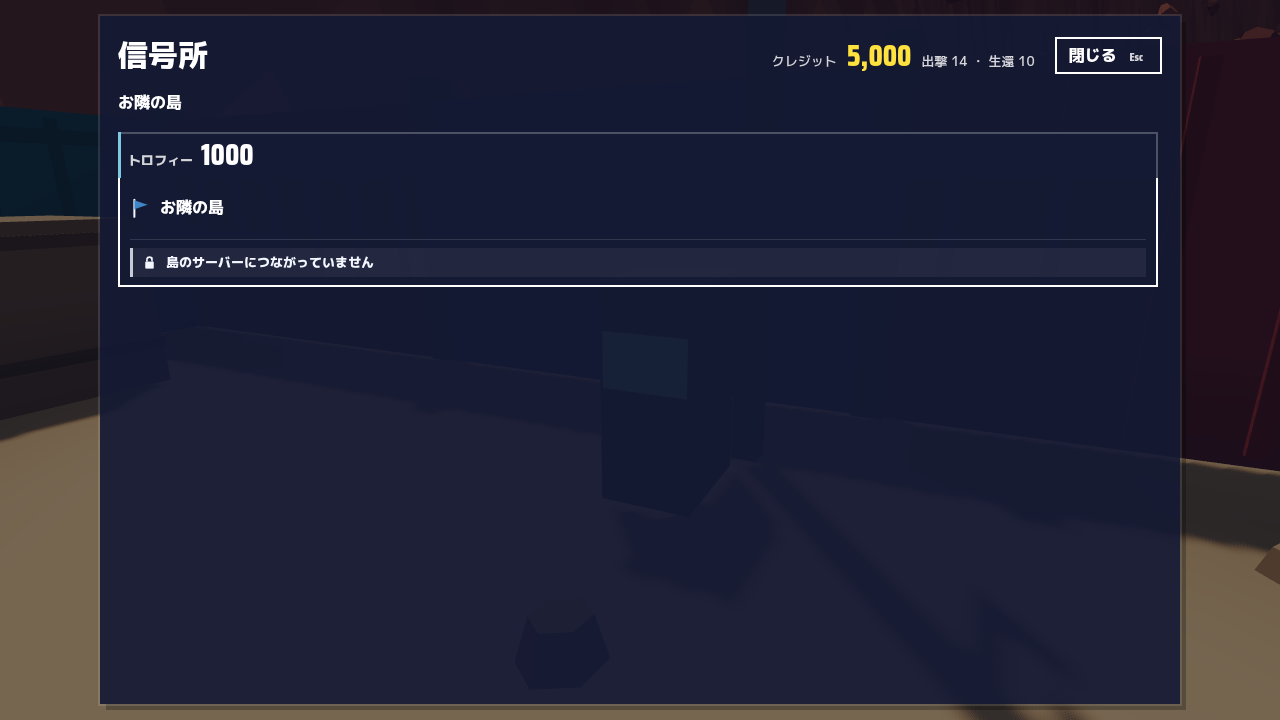
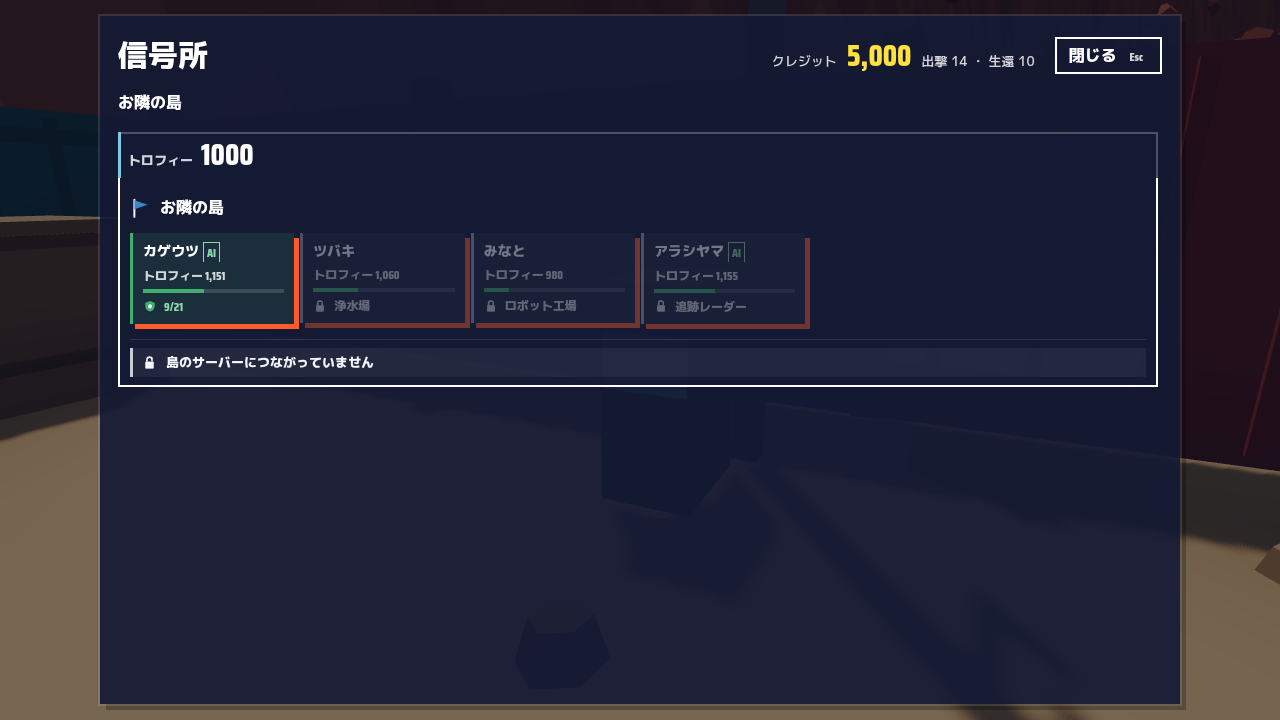
fix(ringfall): AI 名を本物と重ならない候補に、表示を「 · AI」に統一（案 G）
AI 島の名前プールからツバキ等を外し、地図・知らせ・信号所で
「{名前} · AI」に揃える。parseNeighbours は ai フラグを保持する。

Changed region(s): [[0.0938, 0.3361, 0.6562, 0.4583], [0.0938, 0.4889, 0.2812, 0.55], [0.875, 0.5194, 0.9062, 0.55]]

diff --git a/src/ringfall/meta/ai-islands.ts b/src/ringfall/meta/ai-islands.ts
@@ -18,7 +18,7 @@ import { CODE_ALPHABET, CODE_LENGTH } from "./island-code";
 import { lentRivals, type Incoming, type IslandLogEntry, type IslandView, type LentIn, type Outgoing } from "./expeditions";
 import { LOCAL_AID, type Parcel } from "./parcels";
 import type { RivalExpedition } from "../sim/battle";
-import { CONTESTED_SHORES, NEIGHBOUR_MAX, NEIGHBOUR_SLOTS, routeOpen, type Neighbour } from "./neighbours";
+import { aiLabel, CONTESTED_SHORES, NEIGHBOUR_MAX, NEIGHBOUR_SLOTS, routeOpen, type Neighbour } from "./neighbours";
 import { TROPHY, clampTrophies } from "./trophies";
 import type { Island } from "./island";
 
@@ -49,12 +49,16 @@ export const AI = {
   every: [6, 9, 7, 11] as const,
 };
 
-/** The owners' names, a few a slot; the salt picks one. All of a length, so the cards keep their size. */
+/**
+ * AI owners' names (TKT-204 案 G): a pool that does not overlap common player short names
+ * (旧: ツバキ / ミナト / スバル など). Display always adds 「 · AI」 via `aiLabel()` in copy.ts.
+ * A few a slot; the salt picks one. Similar length so the cards keep their size.
+ */
 const NAMES: readonly (readonly string[])[] = [
-  ["ハヤテ", "ミナト", "コハク"],
-  ["ツバキ", "シオン", "アサギ"],
-  ["クロガネ", "ホムラ", "イカリ"],
-  ["カモメ", "スバル", "トキワ"],
+  ["カゲウツ", "イソナミ", "オキカゼ"],
+  ["ヤマビコ", "サワタリ", "ホシクズ"],
+  ["クロサキ", "キンロウ", "ギンカゼ"],
+  ["アラシヤマ", "シオサイ", "カスミメ"],
 ];
 
 /** A small integer hash of a few numbers. */
@@ -221,7 +225,7 @@ export function aiView(
     });
   const held = aiNodes(a, salt, day);
   const parcels = aiDefenceParcels(a, salt, day, held, seized);
-  return { code: a.code, owner: a.name, day, factory: aiFactory(day), protectedUntil: 0, nodes, expeditions, pings: [], parcels };
+  return { code: a.code, owner: aiLabel(a.name), day, factory: aiFactory(day), protectedUntil: 0, nodes, expeditions, pings: [], parcels };
 }
 
 /**
@@ -300,7 +304,7 @@ export function aiAttack(p: Seen, salt: number, taken: readonly number[], scoute
 /** That expedition as the warning the camp shows (来る遠征): it lands in the next raid (no clock: the island waits for the raid). */
 export function aiIncoming(p: Seen, salt: number, taken: readonly number[], scouted = true): Incoming[] {
   const x = aiAttack(p, salt, taken, scouted);
-  return x ? [{ id: 0, by: { code: x.island.code, name: x.island.name }, node: x.node, arriveAt: 0, state: "coming" }] : [];
+  return x ? [{ id: 0, by: { code: x.island.code, name: aiLabel(x.island.name) }, node: x.node, arriveAt: 0, state: "coming" }] : [];
 }
 
 /**
@@ -317,10 +321,17 @@ export function aiLent(p: Seen, salt: number, taken: readonly number[], scouted 
     if (CONTESTED_SHORES.includes(n.id)) continue;
     // Every slot's: an island whose slot a player's island has since taken still holds what it took, and stands its squad there.
     const a = aiByOwner(salt, owner);
-    if (a) out.push({ id: 0, by: { code: aiOwner(a.code), name: a.name }, target: n.id, kinds: aiKinds(p.day), state: "holding" });
+    if (a) out.push({ id: 0, by: { code: aiOwner(a.code), name: aiLabel(a.name) }, target: n.id, kinds: aiKinds(p.day), state: "holding" });
   }
   const x = aiAttack(p, salt, taken, scouted);
-  if (x && p.poiState[x.node]?.state === "own") out.push({ id: 0, by: { code: aiOwner(x.island.code), name: x.island.name }, target: x.node, kinds: x.scout ? [...AI.scout] : aiKinds(p.day), state: "coming" });
+  if (x && p.poiState[x.node]?.state === "own")
+    out.push({
+      id: 0,
+      by: { code: aiOwner(x.island.code), name: aiLabel(x.island.name) },
+      target: x.node,
+      kinds: x.scout ? [...AI.scout] : aiKinds(p.day),
+      state: "coming",
+    });
   return out;
 }
 
@@ -338,7 +349,8 @@ export const aiRivals = (lent: readonly LentIn[]): RivalExpedition[] => lentRiva
  */
 export function aiRaidNews(before: Seen, after: { poiState: Island }, salt: number, taken: readonly number[], now: number, scouted = true): IslandLogEntry[] {
   const out: IslandLogEntry[] = [];
-  const by = (a: AiIsland) => ({ code: a.code, name: a.name });
+  // News / defence log: always 「名前 · AI」 so it never looks like a real player (TKT-204 案 G).
+  const by = (a: AiIsland) => ({ code: a.code, name: aiLabel(a.name) });
   for (const n of NODES) {
     const was = rivalOf(before.poiState[n.id]?.state ?? "foe");
     const is = rivalOf(after.poiState[n.id]?.state ?? "foe");

diff --git a/src/ringfall/view/map.ts b/src/ringfall/view/map.ts
@@ -14,7 +14,7 @@ import { DAM_FACE, floorLevel, groundOf, highGround, LEVEL, steepAt, surfaceAt, 
 import { cellOf, decodeSeen, exploreSize, type Ally, type Contact, type Enemy, type Player, type State } from "../sim/state";
 import { PAL, RARITY_CSS } from "./models";
 import { isContestedShore, NEIGHBOUR_SLOTS, neighbourNameByCode, type Neighbour } from "../meta/neighbours";
-import { attackOwner, contestOwner } from "./copy";
+import { aiLabel, attackOwner, contestOwner } from "./copy";
 import { UI, alpha } from "./palette";
 
 /*
@@ -1044,18 +1044,20 @@ export class IslandMap {
     // A POI the enemy held as the raid began and the player cleared gets a tick after its name; who holds it is its mark's colour.
     const hold = (i: number): PoiHold => s.hold?.[i] ?? "foe";
     const poiText = (i: number) => (s.cleared[i] && hold(i) === "foe" ? `${POIS[i].name} ✓` : POIS[i].name);
-    // Owner display name (AI tagged). Used under hub marks and for 攻める / 取り合う lines.
+    // Owner display name (AI → 「名前 · AI」). Used under hub marks and for 攻める / 取り合う lines.
     const ownerName = (owner: string): string => {
       if (isAiOwner(owner)) {
         const n = neighbourNameByCode(owner, this.neighbours);
-        return n ? `${n} AI` : "AI";
+        return n ? aiLabel(n) : "AI";
       }
+      const n = this.neighbours.find((x) => x.code === owner);
+      if (n) return n.ai ? aiLabel(n.name) : n.name;
       return neighbourNameByCode(owner, this.neighbours) ?? "他のプレイヤー";
     };
     /**
      * Caption under a POI mark (TKT-204 案 A):
      * - rival contested → 「ツバキ · 攻める」
-     * - foe contested facing a neighbour → 「ツバキと取り合う」
+     * - foe contested facing a neighbour → 「カゲウツ · AIと取り合う」
      * - other rival → owner name only
      */
     const shoreCaption = (i: number): string | null => {
@@ -1071,7 +1073,7 @@ export class IslandMap {
       if (slot < 0) return null;
       const n = this.neighbours.find((x) => x.slot === slot);
       if (!n) return null;
-      return contestOwner(n.ai ? `${n.name} AI` : n.name);
+      return contestOwner(n.ai ? aiLabel(n.name) : n.name);
     };
     const attackable = (i: number): boolean => isContestedShore(POIS[i].id) && rivalOf(hold(i)) !== null;
     // Another player's POI starts cleared (it stands no garrison): its name is not dimmed for it.

diff --git a/src/ringfall/view/hub.ts b/src/ringfall/view/hub.ts
@@ -18,7 +18,7 @@ import { frontNodes, NEIGHBOURS, ownNodes } from "../sim/front";
 import { nodeRow } from "./row";
 import { sfx } from "./sfx";
 import { rarityText } from "./palette";
-import { NEWS_KEEP, PLAN_GOAL, PHRASE, TERM, attackGoal, contestGateHint, expOutLine, liberationLine, nextAttack, nextFront, nextFrontCapture, pushNews, relayOf, trophyLine } from "./copy";
+import { NEWS_KEEP, PLAN_GOAL, PHRASE, TERM, aiLabel, attackGoal, contestGateHint, expOutLine, liberationLine, nextAttack, nextFront, nextFrontCapture, pushNews, relayOf, trophyLine } from "./copy";
 import { TROPHY, clampTrophies, defendGain } from "../meta/trophies";
 
 const RARITY_CSS = ["var(--r0)", "var(--r1)", "var(--r2)", "var(--r3)"];
@@ -56,8 +56,10 @@ export function rivalFrontPick(p: Profile, from: { x: number; z: number } = CAMP
   const label = (n: (typeof NODES)[number], i: number): string => {
     const who = rivalOf(holds[i]);
     if (!who) return n.name;
+    const hit = neigh.find((x) => x.code === who || (who.startsWith("ai-") && x.code === who.slice(3)));
+    // 方向 A: 「ツバキの浄水場」— 持ち主＋拠点名. AI → 「カゲウツ · AIの浄水場」(TKT-204 案 G).
+    if (hit) return `${hit.ai ? aiLabel(hit.name) : hit.name}の${n.name}`;
     const owner = neighbourNameByCode(who, neigh);
-    // 方向 A: 「ツバキの浄水場」— 持ち主＋拠点名. Unknown code → 他のプレイヤー (not the slot's name).
     return owner ? `${owner}の${n.name}` : `他のプレイヤーの${n.name}`;
   };
   const near = NODES.map((n, i) => ({ n, i }))

diff --git a/src/ringfall/view/hud.ts b/src/ringfall/view/hud.ts
@@ -3,7 +3,7 @@ import { MODULES, nextLevel, stashCap, stillNeeded } from "../meta/hideout";
 import { neighboursNowOnMap } from "../island-net";
 import type { ModKind, ValuableKind } from "../sim/config";
 import { modGist } from "./modgist";
-import { goalCompass, PHRASE, TERM, liberationDelta, liberationLine, moduleRaiseReady, newsIncursion, relayOf, trophyLine } from "./copy";
+import { aiLabel, goalCompass, PHRASE, TERM, liberationDelta, liberationLine, moduleRaiseReady, newsIncursion, relayOf, trophyLine } from "./copy";
 import { itemColor, itemName, namedAid, nextHandFor } from "./hub";
 import { ALLY, AWARE, BAG, HIDEOUT, META, DEPOT, ENEMIES, HEAL_KINDS, HEALS, PLAYER, RARITY, REVEAL, TACTICAL, TOOL_KINDS, TOOLS, VALUABLES, WEAPONS, type Flank } from "../sim/config";
 import { eyePos, magSize } from "../sim/combat";
@@ -1648,7 +1648,8 @@ export class Hud {
     // incursion / 取り合う拠点の制圧行も newsKeep に入れ、後から setNews されても消えないようにする。
     const nameOf = (owner: string) => {
       const n = neighboursNowOnMap().find((x) => x.code === owner || (owner.startsWith("ai-") && x.code === owner.slice(3)));
-      return n ? (n.ai ? `${n.name}(AI)` : n.name) : owner;
+      if (!n) return owner;
+      return n.ai ? aiLabel(n.name) : n.name;
     };
     const tropPer = settled?.takenRival?.length && settled.trophies?.gained
       ? Math.max(1, Math.round(settled.trophies.gained / settled.takenRival.length))

diff --git a/src/ringfall/view/expeditions.ts b/src/ringfall/view/expeditions.ts
@@ -248,7 +248,9 @@ export class ExpeditionPanel {
             const trop = n.trophies != null ? `<small class="exp-n-trop">${TERM.trophy} ${n.trophies.toLocaleString("ja-JP")}</small>` : "";
             const foot = open ? `<small>${coreIcon(SIDE.rival)}${n.held}/${n.total}${lastMarks(n, Date.now())}</small>` : `<small class="shut">${lockIcon()}${esc(nodeName(NEIGHBOUR_SLOTS[k].shore))}</small>`;
             const reach = open && (this.conn.t === "ok" || n.ai);
-            return `<button type="button" class="${this.target?.code === n.code ? "on" : ""}${open ? "" : " shut"}" data-act="exp-island" data-arg="${esc(n.code)}"${reach ? dis : " disabled"}><b>${esc(n.name)}${n.ai ? `<span class="ai-tag">AI</span>` : ""}</b>${trop}${held}${foot}${overnight(n, p.day)}</button>`;
+            // TKT-204 案 G: AI is 「名前 · AI」 same as map / news (span kept for style).
+            const who = n.ai ? `${esc(n.name)}<span class="ai-tag">AI</span>` : esc(n.name);
+            return `<button type="button" class="${this.target?.code === n.code ? "on" : ""}${open ? "" : " shut"}" data-act="exp-island" data-arg="${esc(n.code)}"${reach ? dis : " disabled"}><b>${who}</b>${trop}${held}${foot}${overnight(n, p.day)}</button>`;
           })
           .join("")}</div>`
       : "";

diff --git a/src/ringfall/main.ts b/src/ringfall/main.ts
@@ -39,7 +39,7 @@ import { Music, type Mood } from "./view/music";
 import { sfx } from "./view/sfx";
 import { Soundscape } from "./view/soundscape";
 import { setupSoundCheck } from "./view/soundcheck";
-import { awaySheetParts, goalIsAt, landedIn, newsIncursion, PHRASE, TERM } from "./view/copy";
+import { aiLabel, awaySheetParts, goalIsAt, landedIn, newsIncursion, PHRASE, TERM } from "./view/copy";
 import { Hud } from "./view/hud";
 import { sightZoom, World } from "./view/world";
 import { Governor, loadChoice, pickTier, QUALITY, saveChoice, type Level, type QualityChoice, type Tier } from "./view/quality";
@@ -1029,7 +1029,8 @@ function finish() {
       : undefined;
     const nameOf = (owner: string) => {
       const n = neighboursFor(hub.profile).find((x) => x.code === owner || (owner.startsWith("ai-") && x.code === owner.slice(3)));
-      return n ? (n.ai ? `${n.name}(AI)` : n.name) : owner;
+      if (!n) return owner;
+      return n.ai ? aiLabel(n.name) : n.name;
     };
     hub.recordNews(
       settlement.takenRival.map((t) => newsIncursion(nameOf(t.owner), NODES[nodeIndex(t.id)]?.name ?? t.id, true, tropPer)),

diff --git a/src/ringfall/meta/neighbours.ts b/src/ringfall/meta/neighbours.ts
@@ -94,6 +94,8 @@ export function parseNeighbours(raw: unknown): Neighbour[] | null {
       ...(factory !== undefined ? { factory } : {}),
       ...(trophies !== undefined ? { trophies } : {}),
       ...(last ? { last } : {}),
+      // Keep AI mark from a cached / injected list (island-net also sets it via withAi).
+      ...(n.ai === true ? { ai: true as const } : {}),
     });
   }
   return out;
@@ -115,4 +117,15 @@ export function ago(at: number, now: number): string {
   if (m < 60) return `${m}m`;
   const h = Math.floor(m / 60);
   return h < 24 ? `${h}h` : `${Math.floor(h / 24)}d`;
+}
+
+/**
+ * AI display name for news / maps (TKT-204 案 G). Kept in meta so ai-islands and view share it.
+ * 【元】ツバキ AI / ツバキ(AI) 【案】{名前} · AI
+ */
+export function aiLabel(name: string): string {
+  const trimmed = name.trim();
+  if (!trimmed) return "AI";
+  if (/(?: · AI|\(AI\)| AI)$/.test(trimmed)) return trimmed;
+  return `${trimmed} · AI`;
 }

diff --git a/src/ringfall/view/copy.ts b/src/ringfall/view/copy.ts
@@ -401,6 +401,9 @@ export function contestGateHint(gate: string): string {
   return `先に${gate}を取ると攻められる`;
 }
 
+/** Re-export for view callers (canonical: meta/neighbours.ts). */
+export { aiLabel } from "../meta/neighbours";
+
 export function moduleRaiseReady(moduleName: string): string {
   return `${moduleName} · ${TERM.raiseLevelReady}`;
 }

diff --git a/docs/ringfall/glossary.md b/docs/ringfall/glossary.md
@@ -78,7 +78,7 @@
 | 海の道／四隅のお隣の島 | 行けない海の印と線 | （消す）／拠点に **{誰} · 攻める** | **TKT-204 案 A** — 攻め先は拠点 |
 | 前線：{拠点}（出撃・相手持ち） | 前線：浄水場 | **{誰}の{拠点}を攻める** | **TKT-204 案 D・採用** — 野営と揃える |
 | 仕返し（知らせから） | （導線なし） | **やり返す** | **TKT-204 案 F** — CoC リベンジ |
-| AI の表示 | ツバキ AI（本名と衝突しうる） | 重ならない名前＋**AI** | **TKT-204 案 G** |
+| AI の表示 | ツバキ AI（本名と衝突しうる） | 重ならない名前＋**{名前} · AI** | **TKT-204 案 G・採用** |
 
 ---
 
@@ -90,7 +90,7 @@
 | （拠点下の）ツバキ | **ツバキ · 攻める** | 取るのが攻めだと分かる（案 A） |
 | （未所持）観測所 | **観測所 · ツバキと取り合う** | 誰と取り合うかを先に見せる（案 A） |
 | 前線：浄水場（出撃の目的・相手持ち） | **ツバキの浄水場を攻める** | 野営の目的・次の一手と揃える（案 D） |
-| ツバキ AI | 本物と重ならない名前＋**AI** | 本物と見分ける（案 G） |
+| ツバキ AI / ツバキ(AI) | **カゲウツ · AI** など（候補も本物と重ならない） | 本物と見分ける（案 G・採用） |
 | （なし・出撃） | **攻める** 一覧（偵察：守り・トロフィー） | CoC の攻撃前の相手選択（案 B） |
 | （なし） | **やり返す** | 取られた行から攻め先へ（案 F） |
 | （なし・初回） | 3 枚の案内 | お隣→拠点→核→トロフィー（案 C） |
